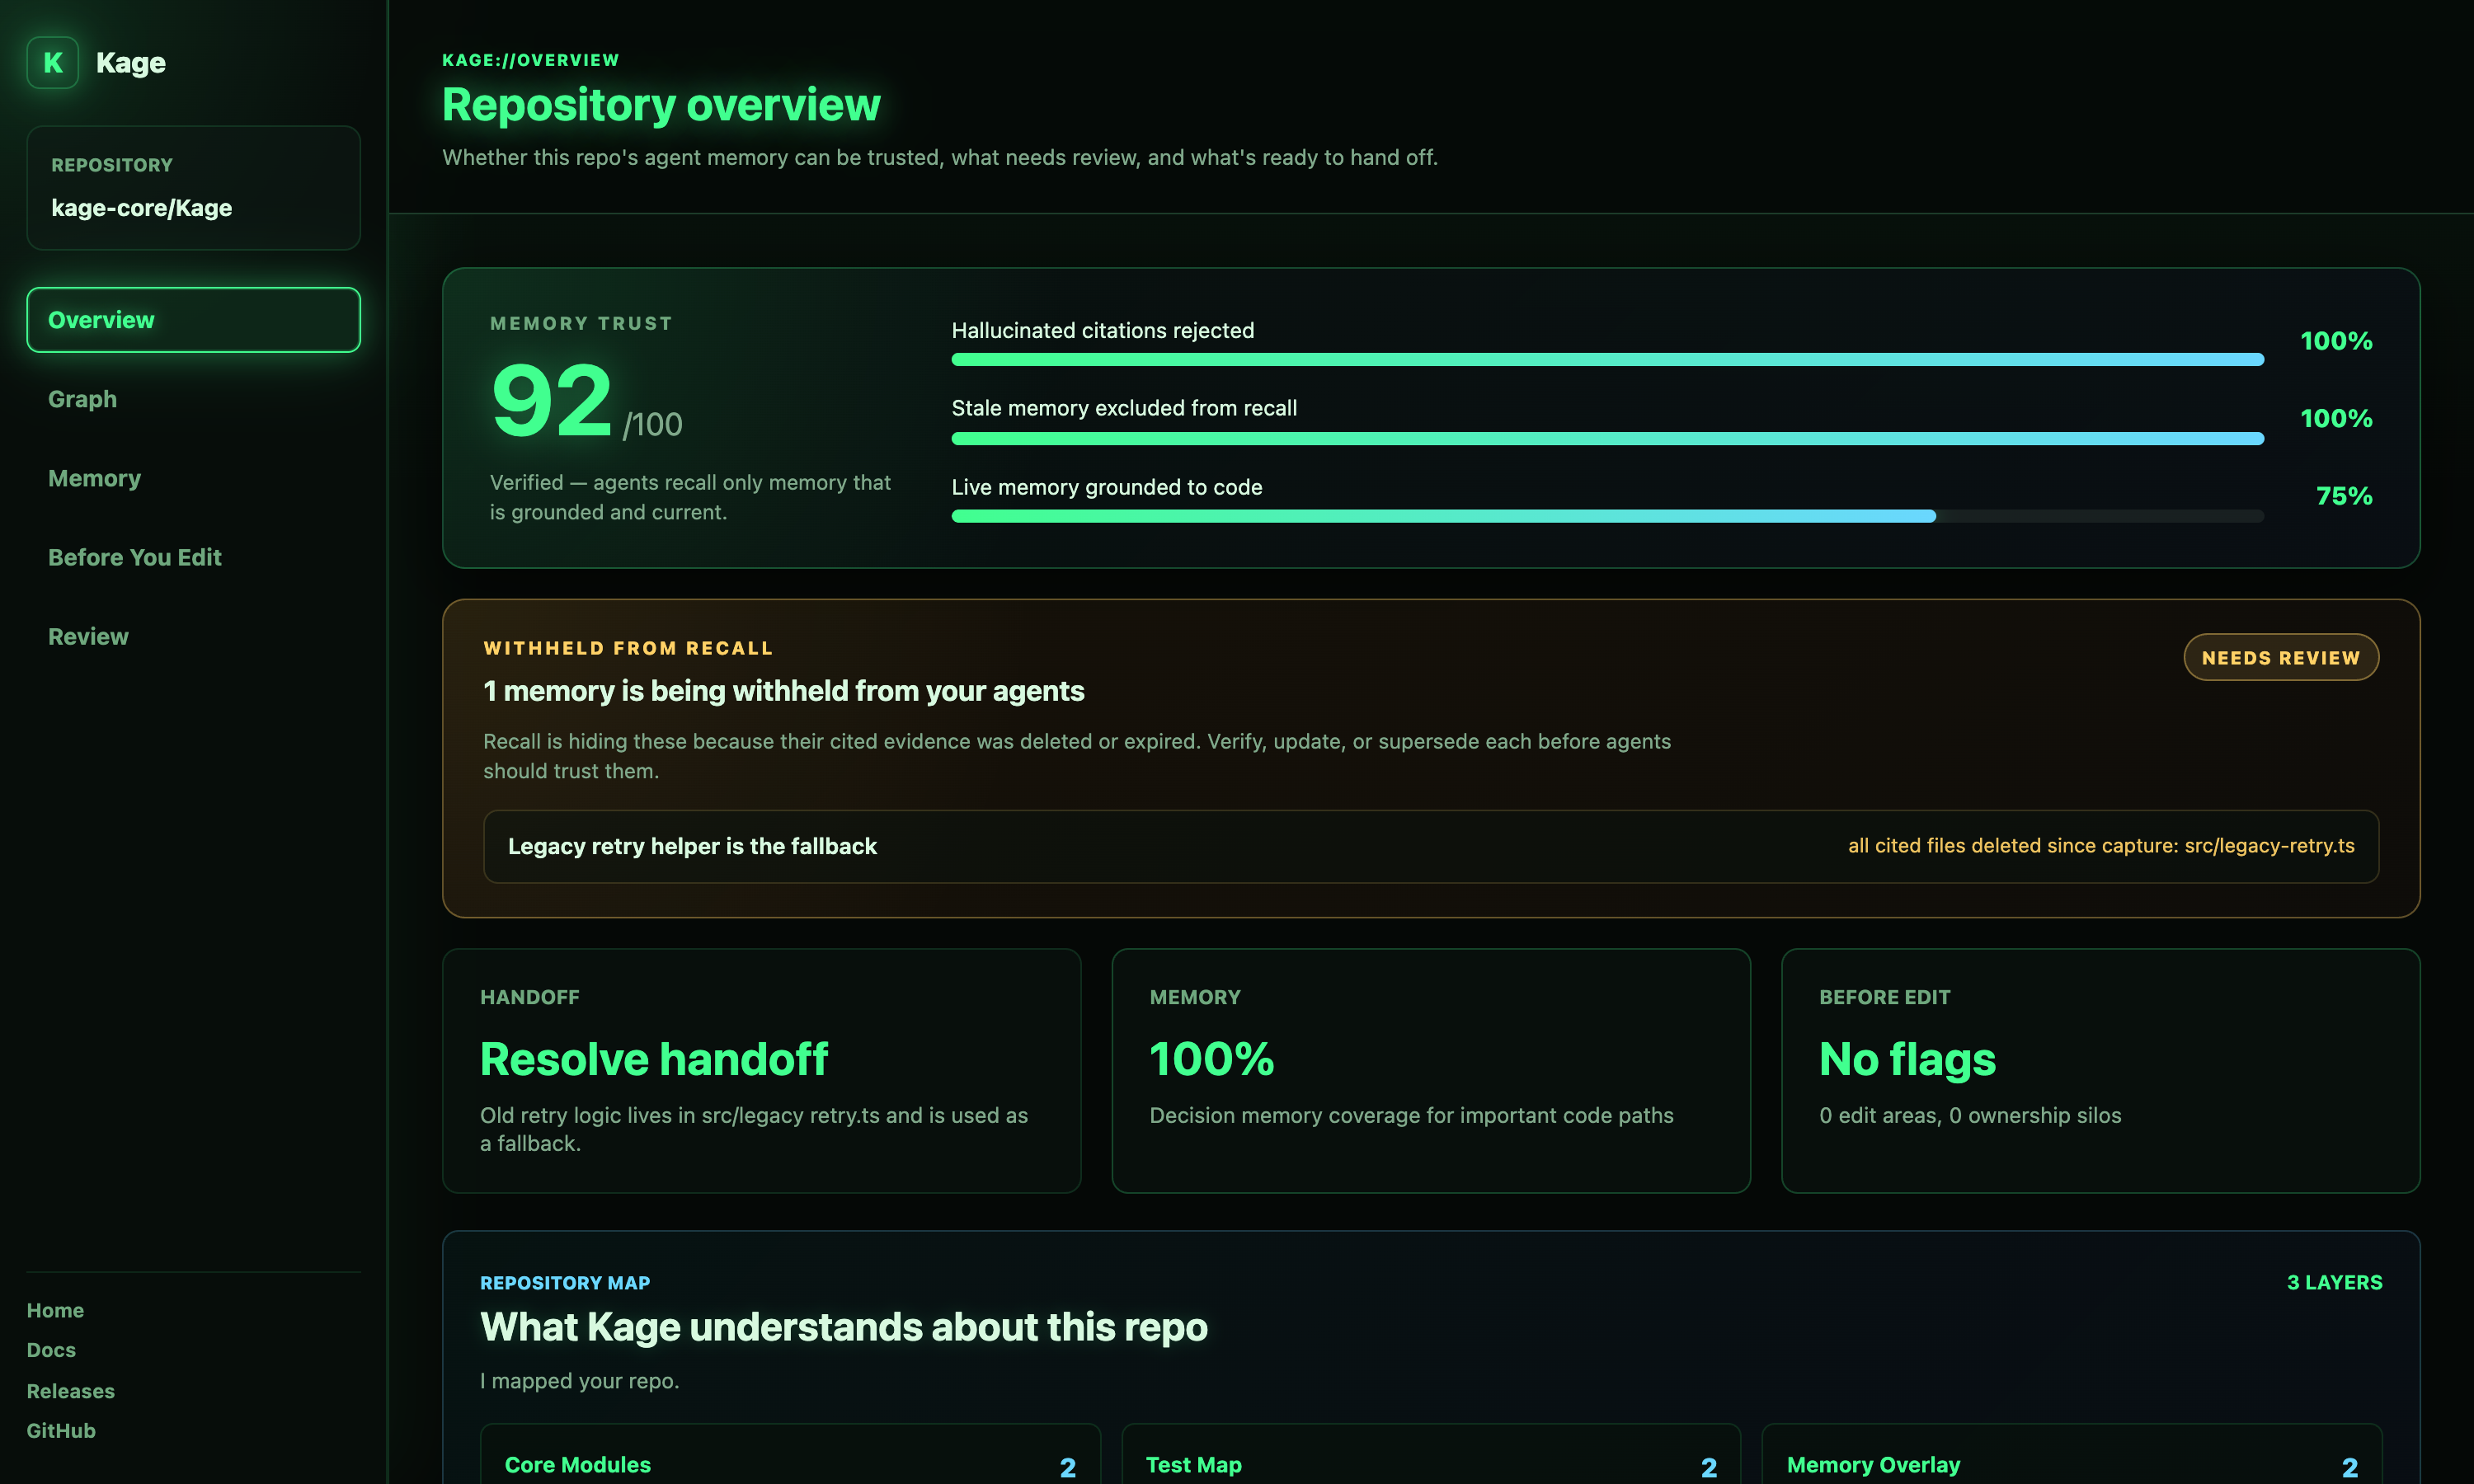
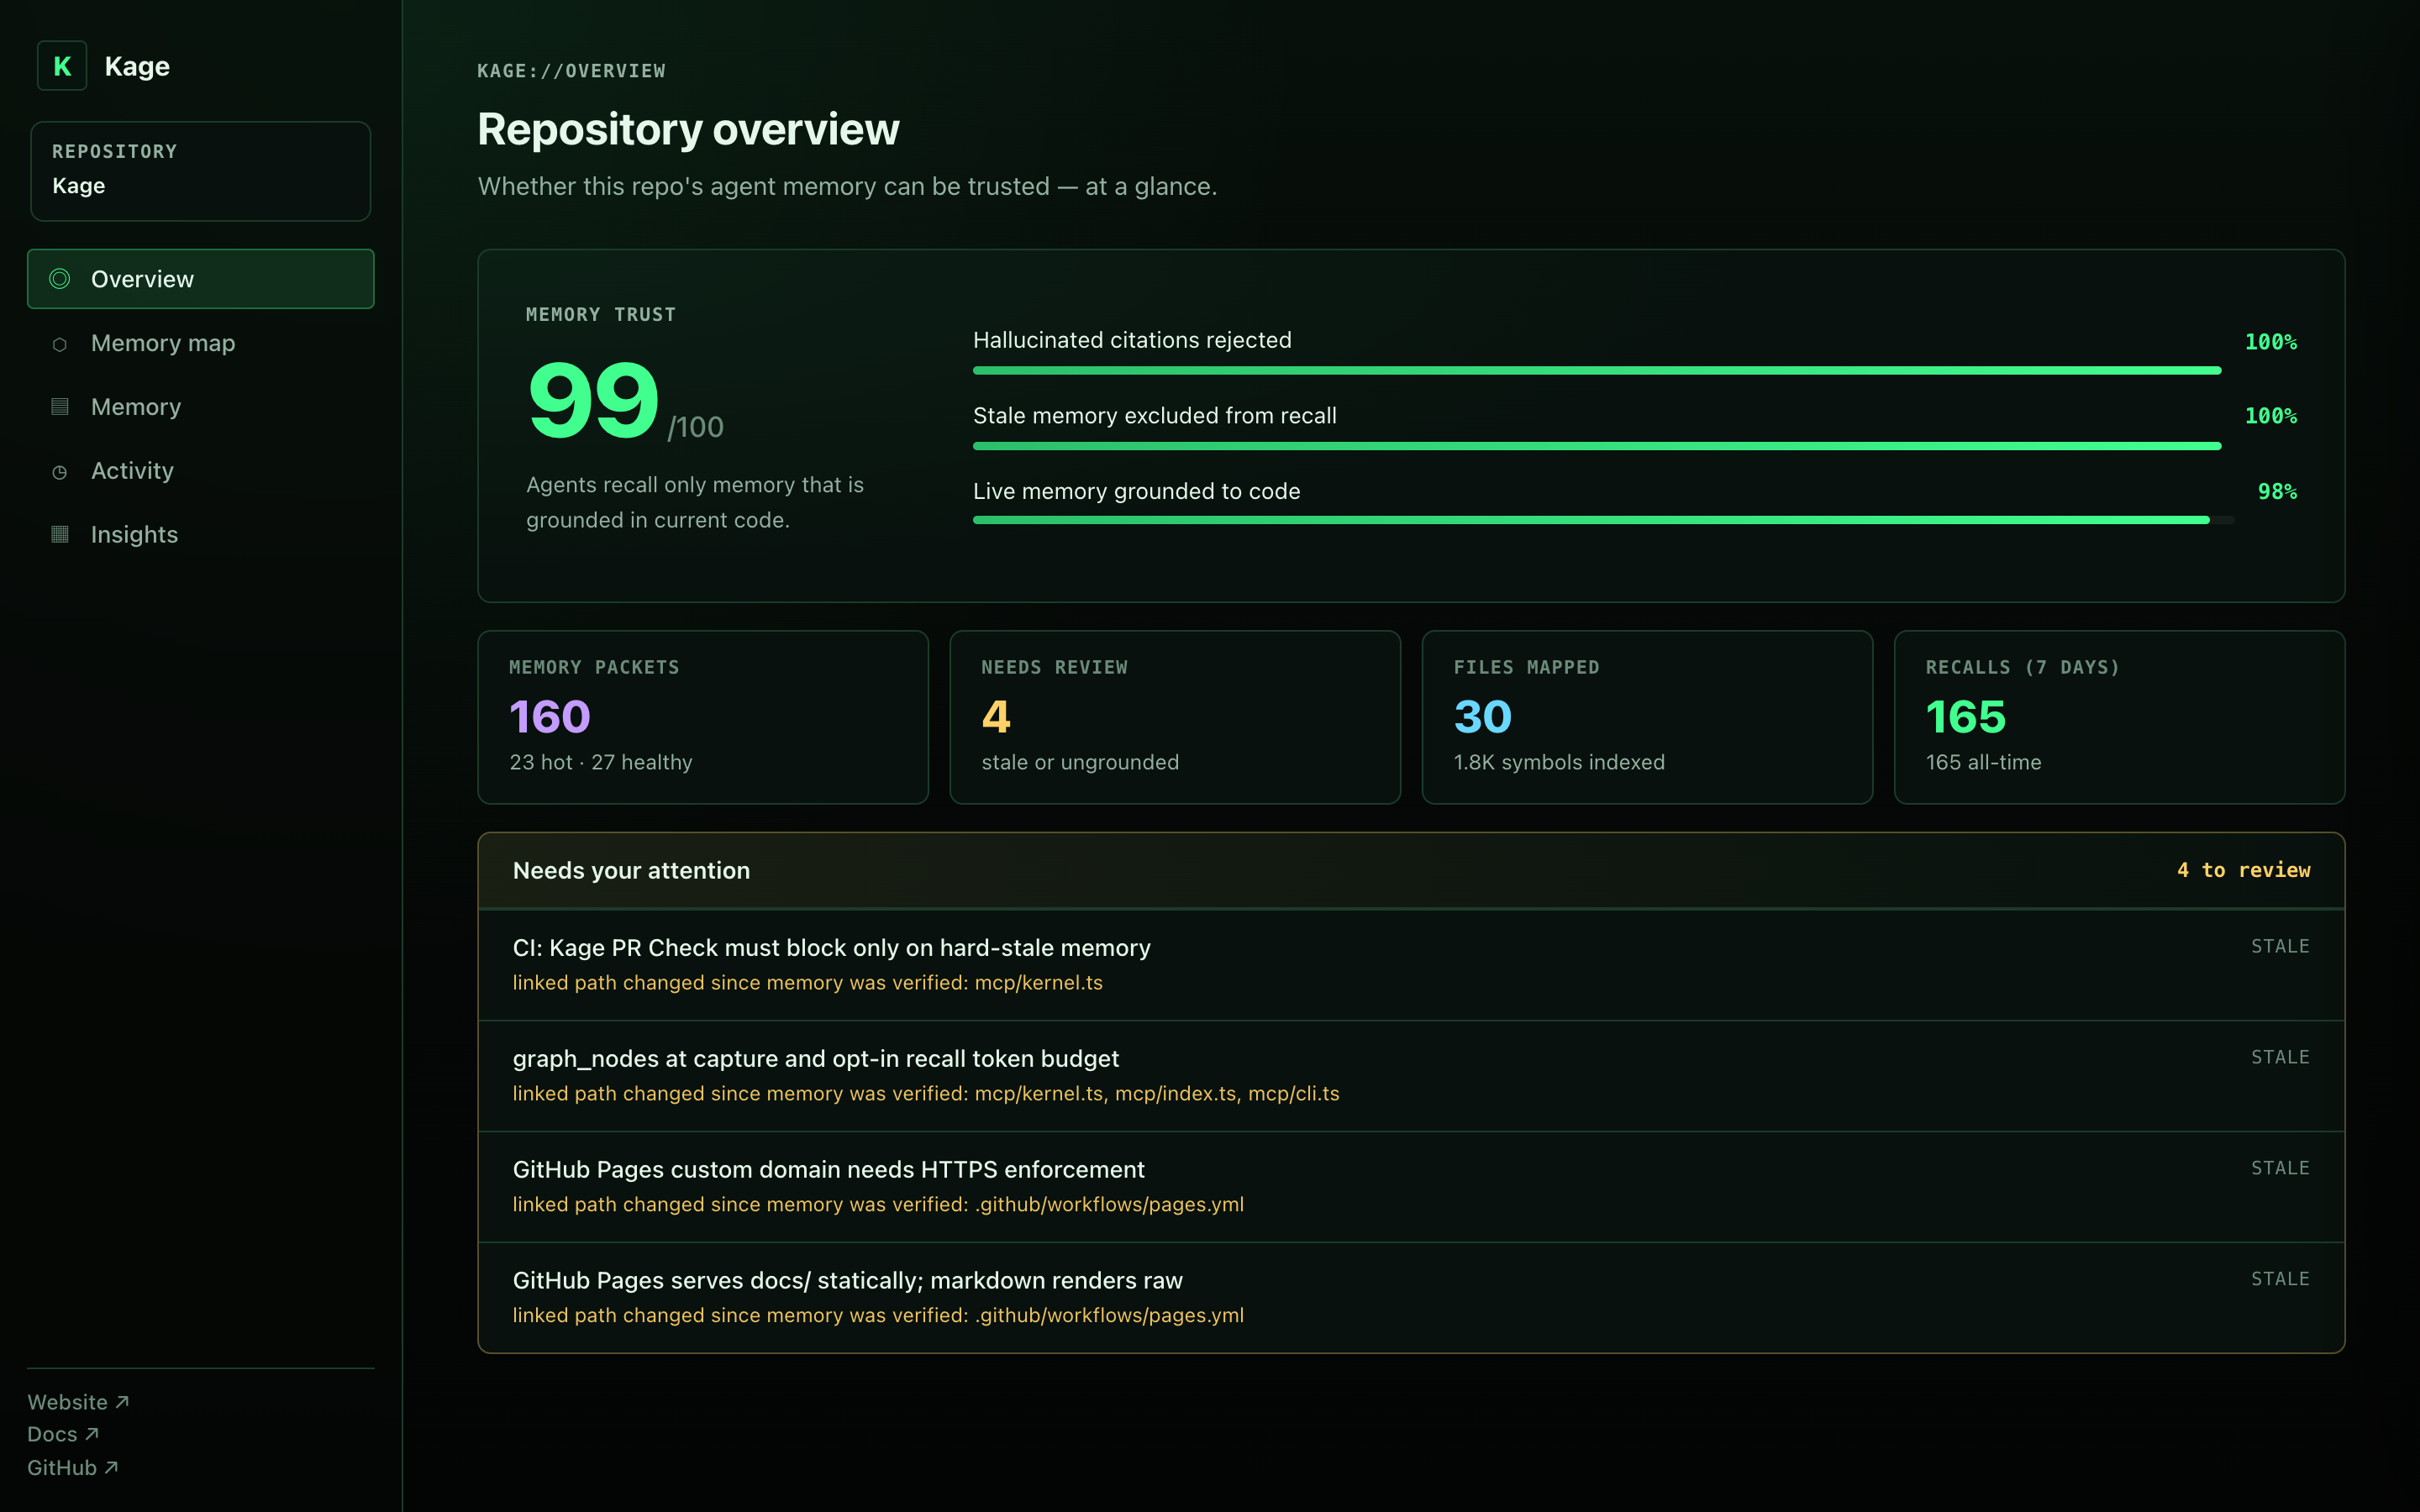
chore(launch): prep launch kit; pull strategy off the public site
- Move docs/launch/ -> launch/ (out of the deployed site). The internal GTM doc
  was publicly served at kage-core.com/launch/GTM.md ('what the incumbent did',
  'where we attack') — strategy shouldn't be public. Now internal only.
- Refresh the viewer poster (docs/assets/kage-viewer-demo-poster.png) from the
  current redesigned viewer + add a memory-map gallery asset; fix the README/site
  captions that still described the old 'Suppression Shelf'.
- Polish the public posts (show-hn, product-hunt, provocation) around the new
  viewer + live demo (https://kage-core.com/viewer); state our own LongMemEval
  number without a head-to-head competitor comparison.
- Add launch/README.md: checklist + honesty guardrails (ship the npm release
  first; our numbers only; no fabricated adoption; demo recalls are real).

diff --git a/docs/index.html b/docs/index.html
@@ -279,7 +279,7 @@ kage setup claude-code --project . --write   # or: codex, cursor, windsurf…</p
           </div>
           <div class="demo">
             <a href="viewer/" aria-label="Open Kage viewer">
-              <img src="assets/kage-viewer-demo-poster.png" alt="Kage viewer showing memory and code graph inspection" />
+              <img src="assets/kage-viewer-demo-poster.png" alt="Kage viewer — Memory Trust dashboard with live recall stats and the memory↔code map" />
             </a>
             <div class="demo-caption">
               <strong>Open the hosted viewer</strong>

diff --git a/launch/README.md b/launch/README.md
@@ -1,0 +1,43 @@
+# Kage launch kit (internal)
+
+Not deployed — this directory lives outside `docs/` on purpose so the strategy
+and draft copy are never served on the public site.
+
+## Contents
+- `GTM.md` — internal strategy (positioning, distribution, competitive read). **Internal only.**
+- `provocation.md` — the long-form essay ("memory you can trust"). Blog / launch-day post.
+- `show-hn.md` — Show HN title + body + first-comment notes.
+- `product-hunt.md` — PH name, tagline, description, maker comment, gallery list.
+
+## Assets (these are public, in `docs/assets/`)
+- `kage-viewer-demo-poster.png` — viewer Overview (Memory Trust + live stats).
+- `kage-viewer-graph.png` — viewer Memory map (memory↔code graph).
+- `kage-demo.gif` — terminal demo.
+
+## The one-line story
+Every agent memory remembers; Kage is the one that tells you when it's wrong —
+write-time citation validation, recall-time stale exclusion, code-graph grounding,
+git-native governance, with a reproducible Trust Benchmark and a live viewer.
+
+## Pre-flight (do before posting)
+- [ ] **Ship the npm release** so `npx` users get the current product (grounding fix,
+      activity instrumentation, redesigned viewer). The posts point at `npx -y
+      @kage-core/kage-graph-mcp demo` — that must be the new version.
+- [ ] Verify the live viewer: https://kage-core.com/viewer (Overview, Memory map,
+      Memory drawer, Activity, Insights all render).
+- [ ] Verify the 30-second demo on a clean machine: `npx -y @kage-core/kage-graph-mcp demo`.
+- [ ] Re-run `kage benchmark --trust` so any quoted score is current.
+- [ ] Confirm `docs/BENCHMARKS.md` + `docs/TRUST.md` are accurate and linkable.
+
+## Honesty guardrails (non-negotiable)
+- Quote **our own** numbers only; never cite a competitor's published benchmark as
+  a head-to-head. Recall is saturated field-wide — say that, don't rank against a name.
+- No fabricated adoption ("N teams use it"). The hosted viewer's recall activity is
+  seeded by **real** build-time recalls; don't present it as organic usage.
+- Every claim must be reproducible from the repo (`kage benchmark --trust`, the demo).
+
+## Sequence
+1. Land the release + a short changelog / blog (`provocation.md`).
+2. Show HN (`show-hn.md`) — engage every comment for the first few hours.
+3. Product Hunt (`product-hunt.md`) — schedule 12:01 PT; maker comment first.
+4. Cross-post the essay; submit to relevant agent/devtool directories.

diff --git a/README.md b/README.md
@@ -47,7 +47,7 @@ Goose · Roo Code · Kilo Code · OpenCode · Aider · Claude Desktop · any MCP
 
 ---
 
-![Kage viewer — Memory Trust score and the Suppression Shelf showing memory withheld from recall](docs/assets/kage-viewer-demo-poster.png)
+![Kage viewer — the Memory Trust score, live recall stats, and the memory that needs review, at a glance](docs/assets/kage-viewer-demo-poster.png)
 
 <div align="center"><sub>The viewer leads with one question: <b>can you trust this memory?</b> — trust score, and the memories recall is withholding right now.</sub></div>
 